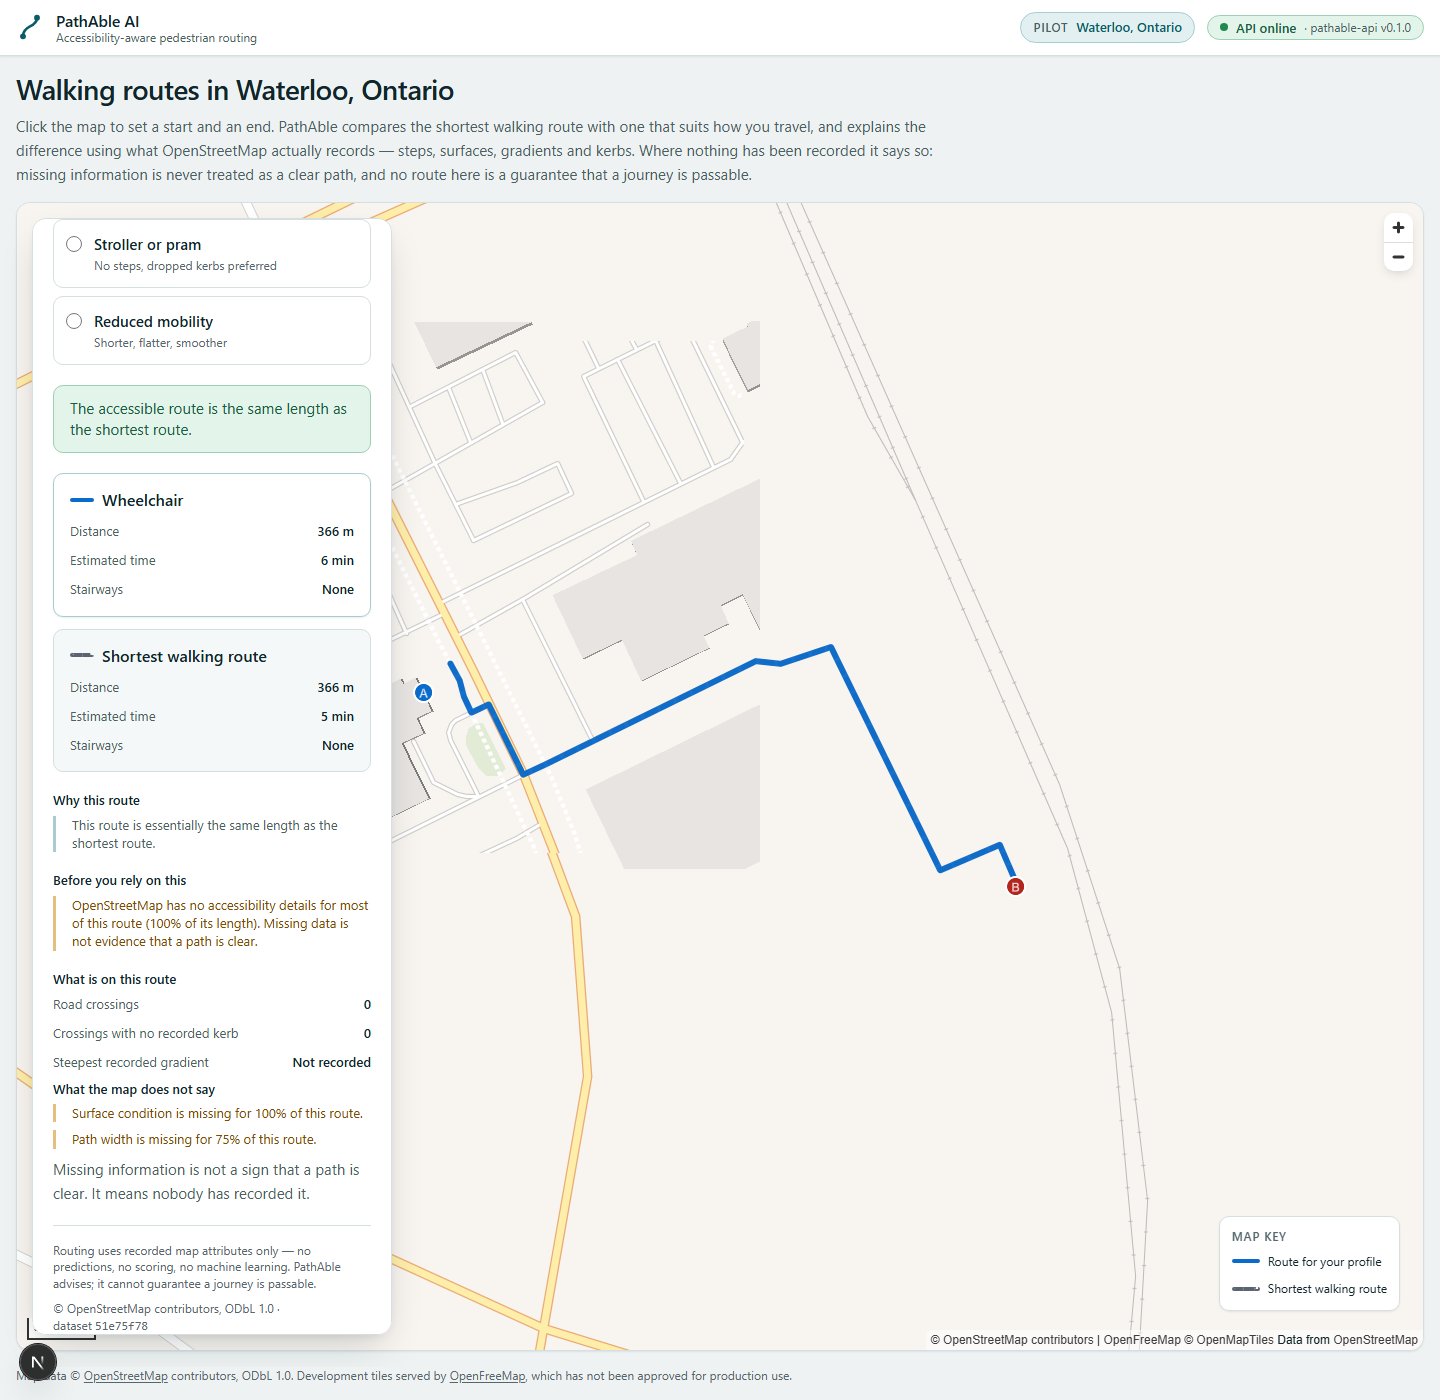
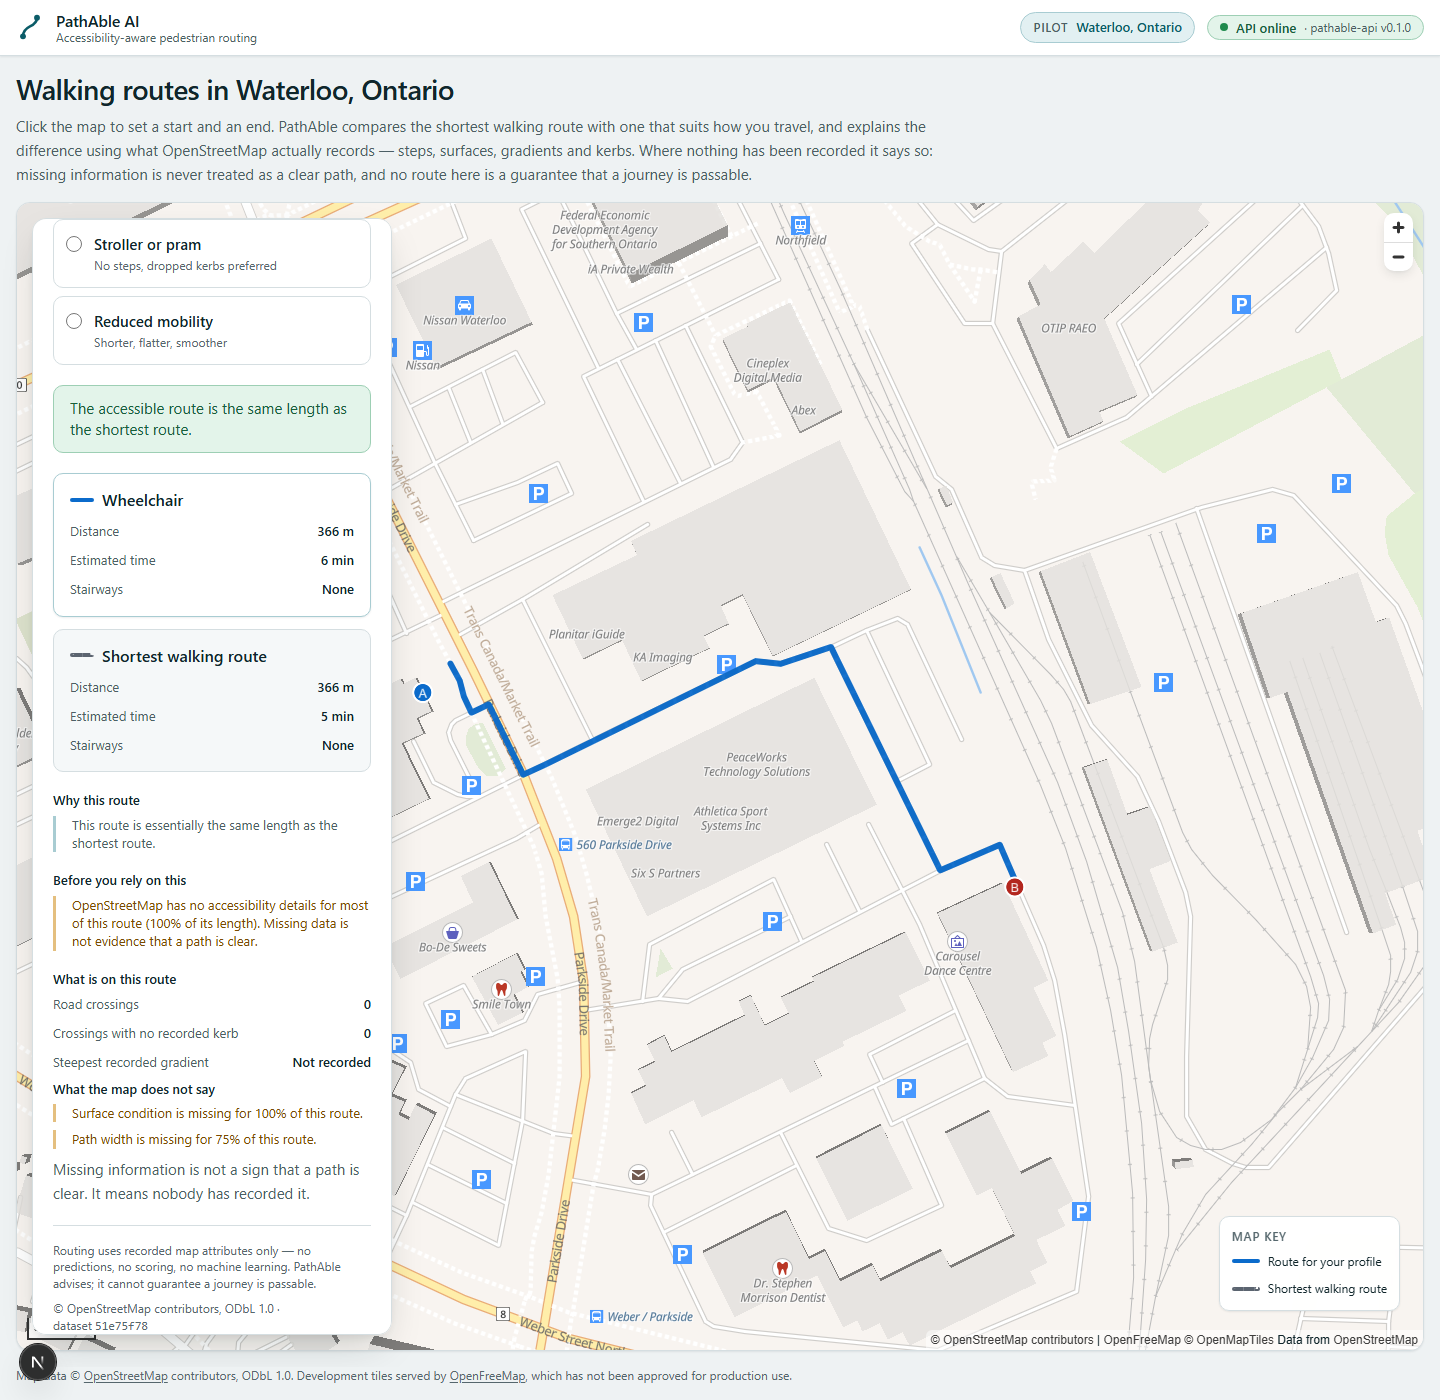
docs: refresh the evidence after the geometry fix
Route corpus, performance figures and screenshots re-run against the corrected
engine, so nothing in `docs/evidence/` predates the fix. The findings are
stable: 18 of 20 journeys still change under the wheelchair profile, one still
has no route, and the ablation still moves 3.

Adds the geometry inspection itself as evidence, and records what it caught —
which is the argument for doing it at all. Twelve routes drew a line that jumped
across a block while reporting a distance that looked entirely reasonable. No
test of totals would have found that.

diff --git a/docs/evidence/README.md b/docs/evidence/README.md
@@ -21,12 +21,13 @@ from a run that actually happened; nothing is estimated or projected.
 
 ## Files
 
-| File                        | What it is                                                                                                                                                                                                   |
-| --------------------------- | ------------------------------------------------------------------------------------------------------------------------------------------------------------------------------------------------------------ |
-| `waterloo-coverage.json`    | What OpenStreetMap records for the region, per category. Produced by `pathable coverage --region waterloo`.                                                                                                  |
-| `waterloo-routes.json`      | Twenty real journeys under the standard and wheelchair profiles, plus the Dijkstra/A\* comparison and the unknown-penalty ablation. Produced by `pathable evaluate --region waterloo --algorithms --ablate`. |
-| `waterloo-performance.json` | Latency, memory and throughput measured on this machine.                                                                                                                                                     |
-| `screenshots/`              | The real product answering from this dataset.                                                                                                                                                                |
+| File                                | What it is                                                                                                                                                                                                   |
+| ----------------------------------- | ------------------------------------------------------------------------------------------------------------------------------------------------------------------------------------------------------------ |
+| `waterloo-coverage.json`            | What OpenStreetMap records for the region, per category. Produced by `pathable coverage --region waterloo`.                                                                                                  |
+| `waterloo-routes.json`              | Twenty real journeys under the standard and wheelchair profiles, plus the Dijkstra/A\* comparison and the unknown-penalty ablation. Produced by `pathable evaluate --region waterloo --algorithms --ablate`. |
+| `waterloo-performance.json`         | Latency, memory and throughput measured on this machine.                                                                                                                                                     |
+| `waterloo-geometry-inspection.json` | Every routable journey checked against its own geometry: continuity, seams, drawn-vs-reported length, and profile violations.                                                                                |
+| `screenshots/`                      | The real product answering from this dataset.                                                                                                                                                                |
 
 ---
 
@@ -44,6 +45,9 @@ synthetic fixture would be a picture of nothing.
 | `04-route-difference.png`                   | A journey where the accessible route differs measurably                                                        |
 | `05-missing-evidence.png`                   | A journey where the map is substantially silent                                                                |
 | `06-snapped-away-from-the-chosen-point.png` | The snapping caution: the route begins at the nearest mapped path, some distance from the point the user chose |
+
+Screenshots were re-captured after the geometry fix below, so every line shown
+is continuous.
 
 **A gap worth naming.** §18 of the task card asks for a screenshot of a genuine
 no-route case. There is a real one — `conestoga-to-rim-park` in
@@ -81,3 +85,12 @@ cancels the saving at this scale in this implementation.
 **The unknown-data penalty is not saturated, but it is doing one job.** Removing
 it changes 3 of 20 routes; removing only the missing-gradient term changes the
 same 3. See ADR 0008.
+
+**Inspecting geometry found a bug nothing else would have.** 12 of the 19
+routable journeys drew a discontinuous polyline — gaps of up to 93 m — and one
+ended 15 m from the point the user chose, while the _reported_ distance stayed
+plausible throughout. A snap-split segment was stored reversed and also marked
+reversed, so it was flipped twice and drawn backwards. All 19 are now continuous,
+end where the traveller was snapped, and draw a length matching what they report.
+That is the whole argument for §16 of the task card: a number can look right
+while the thing on the screen is wrong.

diff --git a/docs/adr/0008-accessibility-cost-model.md b/docs/adr/0008-accessibility-cost-model.md
@@ -74,9 +74,9 @@ Ablated over the twenty-journey Waterloo corpus on the 180,554-segment dataset:
 
 | Variant                            | Routes changed | Median cost / real distance |
 | ---------------------------------- | -------------- | --------------------------- |
-| Penalties as shipped               | —              | 1.56×                       |
-| No penalty for a missing gradient  | 3 / 20         | 1.52×                       |
-| No penalty for missing data at all | 3 / 20         | 1.52×                       |
+| Penalties as shipped               | —              | 1.55×                       |
+| No penalty for a missing gradient  | 3 / 20         | 1.51×                       |
+| No penalty for missing data at all | 3 / 20         | 1.51×                       |
 
 The penalty is **not** saturated: it still changes the route on 3 of 20 real
 journeys. But removing only the gradient term has exactly the same effect as
